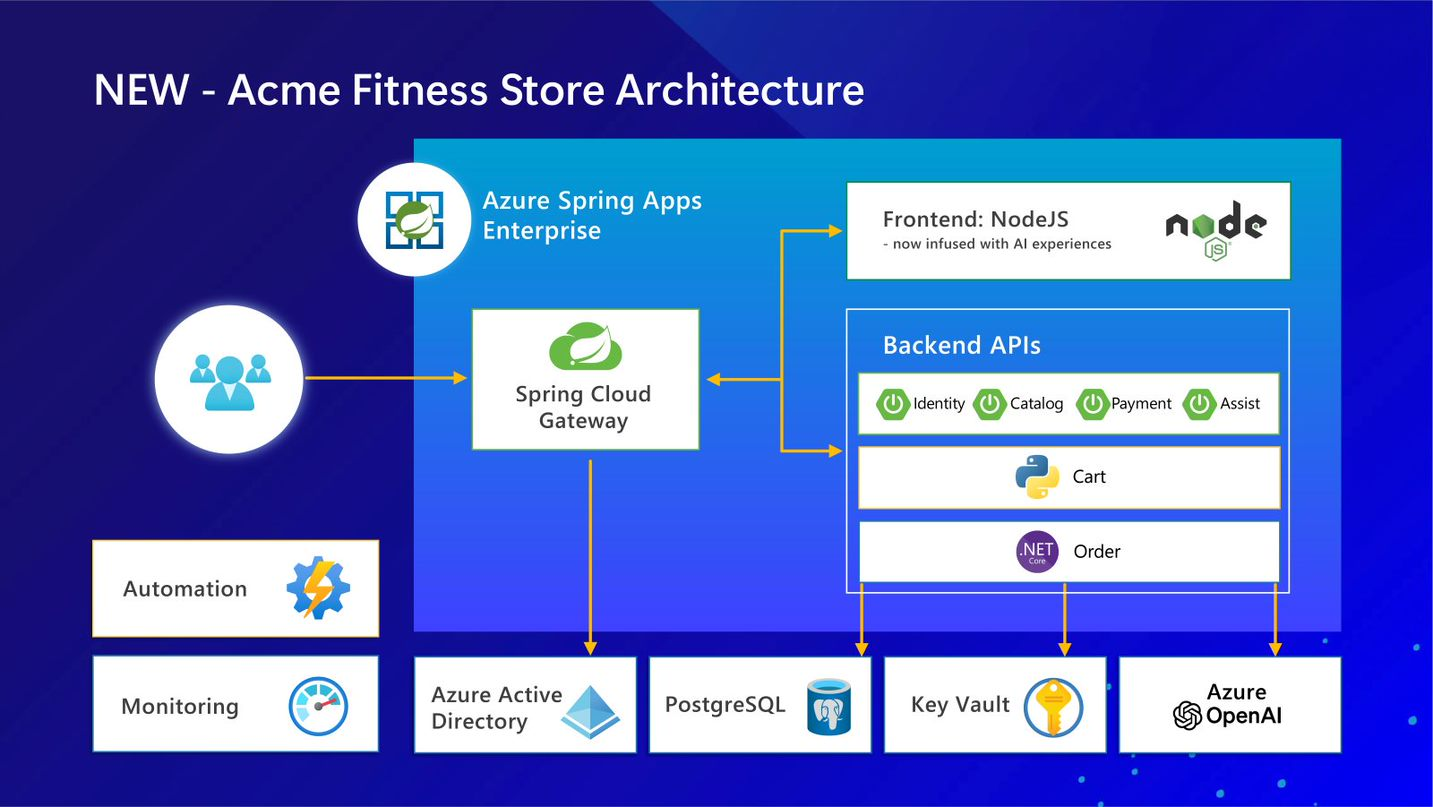
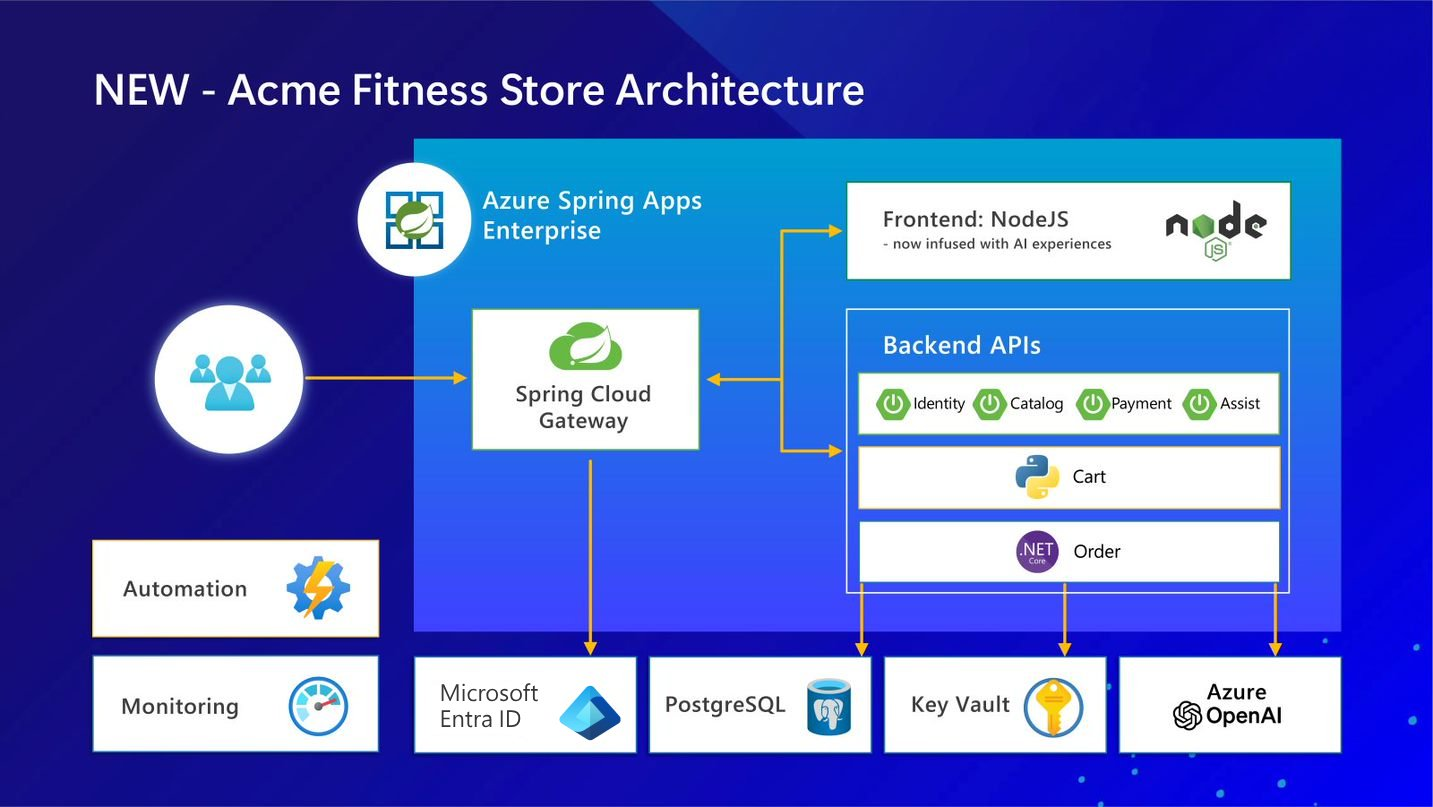
Update tutorial (#199)
* update payment.yml

* update

* update

* update

* update

* update

* update

* update

* update

* update

* update

* update

* update

* update

* Optimize image size of samples

* Update dependencies of AI project

* update bom

* Fix product number issue on UI

* Update docs

* update

Changed region(s): [[0.307, 0.8364, 0.4299, 0.9294], [0.2149, 0.4647, 0.307, 0.4957], [0.522, 0.4647, 0.5527, 0.4957]]

diff --git a/azure-spring-apps-enterprise/README.md b/azure-spring-apps-enterprise/README.md
@@ -176,7 +176,7 @@ Should show something like:
 Create a bash script with environment variables by making a copy of the supplied template:
 
 ```shell
-cp ./setup-env-variables-template.sh ./setup-env-variables.sh
+cp ./setup-env-variables-template.sh ./setup-env-variables.sh -i
 ```
 
 Using an editor of your choice, edit the file, (for the purposes of example we will use the nano editor), and add the following values.
@@ -290,11 +290,15 @@ Retrieve the resource ID for the recently create Azure Spring Apps Service and L
 ```shell
 export LOG_ANALYTICS_RESOURCE_ID=$(az monitor log-analytics workspace show \
     --resource-group ${RESOURCE_GROUP} \
-    --workspace-name ${LOG_ANALYTICS_WORKSPACE} | jq -r '.id')
+    --workspace-name ${LOG_ANALYTICS_WORKSPACE} \
+    --query id \
+    -o tsv)
 
 export SPRING_APPS_RESOURCE_ID=$(az spring show \
     --name ${SPRING_APPS_SERVICE} \
-    --resource-group ${RESOURCE_GROUP} | jq -r '.id')
+    --resource-group ${RESOURCE_GROUP} \
+    --query id \
+    -o tsv)
 ```
 
 Configure diagnostic settings for the Azure Spring Apps Service:
@@ -537,7 +541,7 @@ Assign an endpoint to API Portal and open it in a browser:
 
 ```shell
 az spring api-portal update --assign-endpoint true
-export PORTAL_URL=$(az spring api-portal show | jq -r '.properties.url')
+export PORTAL_URL=$(az spring api-portal show --query properties.url -o tsv)
 
 open "https://${PORTAL_URL}"
 ```
@@ -649,7 +653,7 @@ Should return something like:
 Next, make a copy of setup-sso-variables-template.sh for your custom values.
 
 ```shell
-cp ./setup-sso-variables-template.sh ./setup-sso-variables.sh
+cp ./setup-sso-variables-template.sh ./setup-sso-variables.sh -i
 ```
 
 Echo the following values:
@@ -762,7 +766,7 @@ az spring app update --name ${CART_SERVICE_APP} \
     --env "AUTH_URL=https://${GATEWAY_URL}" "CART_PORT=8080" 
     
 # Update the Order Service
-az spring app  update --name ${ORDER_SERVICE_APP} \
+az spring app update --name ${ORDER_SERVICE_APP} \
     --env "AcmeServiceSettings__AuthUrl=https://${GATEWAY_URL}" 
 ```
 
@@ -789,7 +793,7 @@ be available. This includes adding items to the cart and placing an order.
 Configure API Portal with SSO enabled:
 
 ```shell
-export PORTAL_URL=$(az spring api-portal show | jq -r '.properties.url')
+export PORTAL_URL=$(az spring api-portal show --query properties.url -o tsv)
 
 az spring api-portal update \
     --client-id ${CLIENT_ID} \
@@ -846,7 +850,7 @@ Should show something like:
 #### Create a bash script with environment variables by making a copy of the supplied template:
 
 ```shell
-cp ./setup-db-env-variables-template.sh ./setup-db-env-variables.sh
+cp ./setup-db-env-variables-template.sh ./setup-db-env-variables.sh -i
 ```
 
 ```shell
@@ -1031,7 +1035,9 @@ export POSTGRES_CONNECTION_STR=$(az spring connection show \
     --service ${SPRING_APPS_SERVICE} \
     --deployment default \
     --connection ${ORDER_SERVICE_DB_CONNECTION} \
-    --app ${ORDER_SERVICE_APP} | jq '.configurations[0].value' -r)
+    --app ${ORDER_SERVICE_APP} \
+    --query configurations[0].value \
+    -o tsv)"Trust Server Certificate=true;"
 ```
 
 ```shell
@@ -1048,7 +1054,9 @@ export REDIS_CONN_STR=$(az spring connection show \
     --service ${SPRING_APPS_SERVICE} \
     --deployment default \
     --connection ${CART_SERVICE_CACHE_CONNECTION} \
-    --app ${CART_SERVICE_APP} | jq -r '.configurations[0].value')
+    --app ${CART_SERVICE_APP} \
+    --query configurations[0].value \
+    -o tsv)
 ```
 
 ```shell
@@ -1104,7 +1112,9 @@ export KEY_VAULT=change-me      # customize this
 
 ```shell
 az keyvault create --name ${KEY_VAULT} -g ${RESOURCE_GROUP}
-export KEYVAULT_URI=$(az keyvault show --name ${KEY_VAULT} | jq -r '.properties.vaultUri')
+export KEYVAULT_URI=$(az keyvault show --name ${KEY_VAULT} \
+    --query properties.vaultUri \
+    -o tsv)
 ```
 
 #### Store database connection secrets in Key Vault.
@@ -1118,7 +1128,7 @@ az keyvault secret set --vault-name ${KEY_VAULT} \
     --name "POSTGRES-SERVER-NAME" --value ${POSTGRES_SERVER_FULL_NAME}
 
 az keyvault secret set --vault-name ${KEY_VAULT} \
-    --name "ConnectionStrings--OrderContext" --value "Server=${POSTGRES_SERVER_FULL_NAME};Database=${ORDER_SERVICE_DB};Port=5432;Ssl Mode=Require;User Id=${POSTGRES_SERVER_USER};Password=${POSTGRES_SERVER_PASSWORD};"
+    --name "ConnectionStrings--OrderContext" --value "${POSTGRES_CONNECTION_STR}"
 
 az keyvault secret set --vault-name ${KEY_VAULT} \
     --name "CATALOG-DATABASE-NAME" --value ${CATALOG_SERVICE_DB}
@@ -1133,15 +1143,14 @@ az keyvault secret set --vault-name ${KEY_VAULT} \
 #### Retrieve and store redis connection secrets in Key Vault.
 
 ```shell
-az redis show -n ${AZURE_CACHE_NAME} > redis.json
-export REDIS_HOST=$(cat redis.json | jq -r '.hostName')
-export REDIS_PORT=$(cat redis.json | jq -r '.sslPort')
-export REDIS_PRIMARY_KEY=$(az redis list-keys -n ${AZURE_CACHE_NAME} | jq -r '.primaryKey')
+export REDIS_HOST=$(az redis show -n ${AZURE_CACHE_NAME} --query hostName -o tsv)
+export REDIS_PORT=$(az redis show -n ${AZURE_CACHE_NAME} --query sslPort -o tsv)
+export REDIS_PRIMARY_KEY=$(az redis list-keys -n ${AZURE_CACHE_NAME} --query primaryKey -o tsv)
 ```
 
 ```shell
 az keyvault secret set --vault-name ${KEY_VAULT} \
-  --name "CART-REDIS-CONNECTION-STRING" --value "rediss://:${REDIS_PRIMARY_KEY}@${REDIS_HOST}:${REDIS_PORT}/0"
+  --name "CART-REDIS-CONNECTION-STRING" --value "${REDIS_CONN_STR}"
 ```
 
 #### Store SSO Secrets in Key Vault.
@@ -1156,17 +1165,17 @@ az keyvault secret set --vault-name ${KEY_VAULT} \
 #### Enable System Assigned Identities for applications and export identities to environment.
 
 ```shell
-az spring app identity assign --name ${CART_SERVICE_APP}
-export CART_SERVICE_APP_IDENTITY=$(az spring app show --name ${CART_SERVICE_APP} | jq -r '.identity.principalId')
+az spring app identity assign --name ${CART_SERVICE_APP} --system-assigned
+export CART_SERVICE_APP_IDENTITY=$(az spring app show --name ${CART_SERVICE_APP} --query identity.principalId -o tsv)
 
-az spring app identity assign --name ${ORDER_SERVICE_APP}
-export ORDER_SERVICE_APP_IDENTITY=$(az spring app show --name ${ORDER_SERVICE_APP} | jq -r '.identity.principalId')
+az spring app identity assign --name ${ORDER_SERVICE_APP} --system-assigned
+export ORDER_SERVICE_APP_IDENTITY=$(az spring app show --name ${ORDER_SERVICE_APP} --query identity.principalId -o tsv)
 
-az spring app identity assign --name ${CATALOG_SERVICE_APP}
-export CATALOG_SERVICE_APP_IDENTITY=$(az spring app show --name ${CATALOG_SERVICE_APP} | jq -r '.identity.principalId')
+az spring app identity assign --name ${CATALOG_SERVICE_APP} --system-assigned
+export CATALOG_SERVICE_APP_IDENTITY=$(az spring app show --name ${CATALOG_SERVICE_APP} --query identity.principalId -o tsv)
 
-az spring app identity assign --name ${IDENTITY_SERVICE_APP}
-export IDENTITY_SERVICE_APP_IDENTITY=$(az spring app show --name ${IDENTITY_SERVICE_APP} | jq -r '.identity.principalId')
+az spring app identity assign --name ${IDENTITY_SERVICE_APP} --system-assigned
+export IDENTITY_SERVICE_APP_IDENTITY=$(az spring app show --name ${IDENTITY_SERVICE_APP} --query identity.principalId -o tsv)
 ```
 
 #### Add an access policy to Azure Key Vault to allow Managed Identities to read secrets.
@@ -1218,7 +1227,7 @@ az spring connection delete \
     --connection ${CART_SERVICE_CACHE_CONNECTION} \
     --app ${CART_SERVICE_APP} \
     --deployment default \
-    --yes     
+    --yes
 ```
 
 ```shell    
@@ -1229,13 +1238,13 @@ az spring app update --name ${ORDER_SERVICE_APP} \
 ```shell
 az spring app update --name ${CATALOG_SERVICE_APP} \
     --config-file-pattern catalog/default,catalog/key-vault \
-    --env "SPRING_CLOUD_AZURE_KEYVAULT_SECRET_PROPERTY_SOURCES_0_ENDPOINT=${KEYVAULT_URI}" "SPRING_CLOUD_AZURE_KEYVAULT_SECRET_PROPERTY_SOURCES_0_NAME='acme-fitness-store-vault'" "SPRING_PROFILES_ACTIVE=default,key-vault"
+    --env "SPRING_CLOUD_AZURE_KEYVAULT_SECRET_PROPERTY_SOURCES_0_ENDPOINT=${KEYVAULT_URI}" "SPRING_CLOUD_AZURE_KEYVAULT_SECRET_PROPERTY_SOURCES_0_NAME=${KEY_VAULT}" "SPRING_PROFILES_ACTIVE=default,key-vault"
 ```
 
 ```shell  
 az spring app update --name ${IDENTITY_SERVICE_APP} \
     --config-file-pattern identity/default,identity/key-vault \
-    --env "SPRING_CLOUD_AZURE_KEYVAULT_SECRET_PROPERTY_SOURCES_0_ENDPOINT=${KEYVAULT_URI}" "SPRING_CLOUD_AZURE_KEYVAULT_SECRET_PROPERTY_SOURCES_0_NAME='acme-fitness-store-vault'" "SPRING_PROFILES_ACTIVE=default,key-vault"
+    --env "SPRING_CLOUD_AZURE_KEYVAULT_SECRET_PROPERTY_SOURCES_0_ENDPOINT=${KEYVAULT_URI}" "SPRING_CLOUD_AZURE_KEYVAULT_SECRET_PROPERTY_SOURCES_0_NAME=${KEY_VAULT}" "SPRING_PROFILES_ACTIVE=default,key-vault"
 ```
 
 ```shell    
@@ -1600,7 +1609,7 @@ Should show something like:
 #### Create a bash script with environment variables by making a copy of the supplied template:
 
 ```shell
-cp ./setup-storage-env-variables-template.sh ./setup-storage-env-variables.sh
+cp ./setup-storage-env-variables-template.sh ./setup-storage-env-variables.sh -i
 ```
 
 #### Using an editor of your choice, edit the file, (for the purposes of example we will use the nano editor), and add the following values.
@@ -1775,7 +1784,7 @@ The `cleanup` workflow can be manually run to delete all resources created by th
 1. Copy the AI environment variables template file, e.g. 
 
    ```bash
-   cp azure-spring-apps-enterprise/scripts/setup-ai-env-variables-template.sh azure-spring-apps-enterprise/scripts/setup-ai-env-variables.sh
+   cp azure-spring-apps-enterprise/scripts/setup-ai-env-variables-template.sh azure-spring-apps-enterprise/scripts/setup-ai-env-variables.sh -i
    ```
 
 1. Update the values in `azure-spring-apps-enterprise/scripts/setup-ai-env-variables.sh` with your own values, as configured in Azure OpenAI instance:
@@ -1843,8 +1852,6 @@ The `cleanup` workflow can be manually run to delete all resources created by th
 1. Update the values in `azure-spring-apps-enterprise/scripts/setup-ai-env-variables.sh`, e.g.
     * for Endpoint and API KEY - check under Azure Portal OpenAI instances in `Keys and Endpoint` section
     ![A screenshot of the Azure Portal OpenAI instance.](./media/openai-azure-ai-services-api-key.png)    
-    * for `SPRING_AI_AZURE_OPENAI_MODEL` use previously defined model, e.g. `gpt-35-turbo-16k`
-    * for `SPRING_AI_AZURE_OPENAI_EMBEDDINGMODEL` use previously defined model, e.g. `text-embedding-ada-002`
     * for `AI_APP` use default name, e.g. `assist-service`
     
 > Note: You can get the endpoint by querying the `cognitiveservices` from Azure CLI, e.g.
@@ -1896,9 +1903,7 @@ cd apps/acme-assist
         --build-env BP_JVM_VERSION=17 \
         --env \
             SPRING_AI_AZURE_OPENAI_ENDPOINT=${SPRING_AI_AZURE_OPENAI_ENDPOINT} \
-            SPRING_AI_AZURE_OPENAI_APIKEY=${SPRING_AI_AZURE_OPENAI_APIKEY} \
-            SPRING_AI_AZURE_OPENAI_MODEL=${SPRING_AI_AZURE_OPENAI_MODEL} \
-            SPRING_AI_AZURE_OPENAI_EMBEDDINGMODEL=${SPRING_AI_AZURE_OPENAI_EMBEDDINGMODEL}
+            SPRING_AI_AZURE_OPENAI_API_KEY=${SPRING_AI_AZURE_OPENAI_API_KEY}
     ```
 
 1. Test the `acme-fitness` application in the browser again. Go to `ASK TO FITASSIST` and converse with the assistant, e.g.

diff --git a/azure-spring-apps-enterprise/workshops/azure-spring-apps-enterprise/ai/01-workshop-environment-setup/README.md b/azure-spring-apps-enterprise/workshops/azure-spring-apps-enterprise/ai/01-workshop-environment-setup/README.md
@@ -44,7 +44,7 @@ Workshop instructors will use this information to provision your access to the w
 1. Copy the AI environment variables template file, e.g. 
 
    ```bash
-   cp azure-spring-apps-enterprise/scripts/setup-ai-env-variables-template.sh azure-spring-apps-enterprise/scripts/setup-ai-env-variables.sh
+   cp azure-spring-apps-enterprise/scripts/setup-ai-env-variables-template.sh azure-spring-apps-enterprise/scripts/setup-ai-env-variables.sh -i
    ```
 
 1. Update the values in `azure-spring-apps-enterprise/scripts/setup-ai-env-variables.sh` with your own values, as configured in Azure OpenAI instance:
@@ -58,7 +58,7 @@ Workshop instructors will use this information to provision your access to the w
 1. You might already have environment variables file from earlier labs - check with your instructor.
    Please copy the environment variables template file, e.g.
    ```bash
-   cp azure-spring-apps-enterprise/scripts/setup-env-variables-template.sh azure-spring-apps-enterprise/scripts/setup-env-variables.sh
+   cp azure-spring-apps-enterprise/scripts/setup-env-variables-template.sh azure-spring-apps-enterprise/scripts/setup-env-variables.sh -i
    ```
 
 1. Updates the values in `azure-spring-apps-enterprise/scripts/setup-env-variables.sh` as directed by your instructor.

diff --git a/azure-spring-apps-enterprise/workshops/azure-spring-apps-enterprise/intermediate/01-workshop-environment-setup/README.md b/azure-spring-apps-enterprise/workshops/azure-spring-apps-enterprise/intermediate/01-workshop-environment-setup/README.md
@@ -24,7 +24,7 @@ Github Codespaces can be leveraged to provide a development environment for runn
     #### Update Environment Variables
     ```shell
     cd acme-fitness-store/azure-spring-apps-enterprise
-    cp ./scripts/setup-env-variables-template.sh ./scripts/setup-env-variables.sh
+    cp ./scripts/setup-env-variables-template.sh ./scripts/setup-env-variables.sh -i
     code ./scripts/setup-env-variables.sh # Use the editor of your choice
     ```
 
@@ -137,7 +137,7 @@ az extension update --name spring
 ### Update Environment Variables
 ```shell
 cd acme-fitness-store/azure-spring-apps-enterprise
-cp ./scripts/setup-env-variables-template.sh ./scripts/setup-env-variables.sh
+cp ./scripts/setup-env-variables-template.sh ./scripts/setup-env-variables.sh -i
 code ./scripts/setup-env-variables.sh # Use the editor of your choice
 ```
 

diff --git a/azure-spring-apps-enterprise/ja-jp/azure-spring-apps-enterprise/workshops/azure-spring-apps-enterprise/full/00-workshop-kickoff/Agenda.md b/azure-spring-apps-enterprise/ja-jp/azure-spring-apps-enterprise/workshops/azure-spring-apps-enterprise/full/00-workshop-kickoff/Agenda.md
@@ -92,7 +92,7 @@ urlFragment: "acme-fitness-store"
 ### 2.7.4. デモ - 資格情報を安全に読み込むようにカタログアプリを設定
 ## 2.8. SSO – Spring Cloud Gateway と Azure Active Directory の使用
 ### 2.8.1. 概要 – SSO の設定方法
-### 2.8.2. AAD アプリとその構成を表示
+### 2.8.2. Microsoft Entra ID アプリとその構成を表示
 ### 2.8.3. デモ – ID アプリのデプロイ
 ### 2.8.4. オーダー・サービス用の設定方法
 ## 2.9. ハンズオン 3

diff --git a/azure-spring-apps-enterprise/workshops/azure-spring-apps-enterprise/full/08-hol-2-deploy-frontend-app/README.md b/azure-spring-apps-enterprise/workshops/azure-spring-apps-enterprise/full/08-hol-2-deploy-frontend-app/README.md
@@ -20,7 +20,7 @@ This is a preliminary step that is not related to deploying the frontend app. Bu
 Create a bash script with the key-vault environment varialbe by making a copy of the supplied template:
 
 ```shell
-cp ./scripts/setup-keyvault-env-variables-template.sh ./scripts/setup-keyvault-env-variables.sh
+cp ./scripts/setup-keyvault-env-variables-template.sh ./scripts/setup-keyvault-env-variables.sh -i
 ```
 
 Open `./scripts/setup-keyvault-env-variables.sh` and update the following information:

diff --git a/azure-spring-apps-enterprise/workshops/azure-spring-apps-enterprise/full/11-hol-3.3-configure-database-cache/README.md b/azure-spring-apps-enterprise/workshops/azure-spring-apps-enterprise/full/11-hol-3.3-configure-database-cache/README.md
@@ -8,7 +8,7 @@ Once this section is complete, the architecture looks as below:
 Create a bash script with environment variables by making a copy of the supplied template:
 
 ```shell
-cp ./scripts/setup-db-env-variables-template.sh ./scripts/setup-db-env-variables.sh
+cp ./scripts/setup-db-env-variables-template.sh ./scripts/setup-db-env-variables.sh -i
 ```
 
 Open `./scripts/setup-db-env-variables.sh` and enter the following information:

diff --git a/azure-spring-apps-enterprise/ja-jp/azure-spring-apps-enterprise/workshops/azure-spring-apps-enterprise/full/11-hol-3.3-configure-database-cache/README.md b/azure-spring-apps-enterprise/ja-jp/azure-spring-apps-enterprise/workshops/azure-spring-apps-enterprise/full/11-hol-3.3-configure-database-cache/README.md
@@ -9,7 +9,7 @@
 
 ```shell
 cd /workspaces/acme-fitness-store/azure-spring-apps-enterprise
-cp ./scripts/setup-db-env-variables-template.sh ./scripts/setup-db-env-variables.sh
+cp ./scripts/setup-db-env-variables-template.sh ./scripts/setup-db-env-variables.sh -i
 ```
 
 次に、デフォルトの Postgres Server のパスワードを変更するため、新規パスワードを作成します

diff --git a/azure-spring-apps-enterprise/workshops/azure-spring-apps-enterprise/full/00-workshop-kickoff/Agenda.md b/azure-spring-apps-enterprise/workshops/azure-spring-apps-enterprise/full/00-workshop-kickoff/Agenda.md
@@ -109,7 +109,7 @@ urlFragment: "acme-fitness-store"
 
 ## 2.8. SSO – using Spring Cloud Gateway and Azure Active Directory
 ### 2.8.1. Overview – how SSO is configured
-### 2.8.2. Show AAD app and its configuration
+### 2.8.2. Show Microsoft Entra App and its configuration
 ### 2.8.3. Demo – deploy Identity app
 ### 2.8.4. Show end-to-end experience for placing an order
 

diff --git a/azure-spring-apps-enterprise/workshops/azure-spring-apps-enterprise/basics/01-pre-requisites/README.md b/azure-spring-apps-enterprise/workshops/azure-spring-apps-enterprise/basics/01-pre-requisites/README.md
@@ -30,7 +30,7 @@ The requirement to get Codespaces enabled for you is to get your gitid added to 
 ### Set the env vars
 Run the below command
 ```shell
-cp ./env/env-vars-template.sh ./env/env-vars.sh
+cp ./env/env-vars-template.sh ./env/env-vars.sh -i
 ```
 
 Update the variable names based on the comments.
